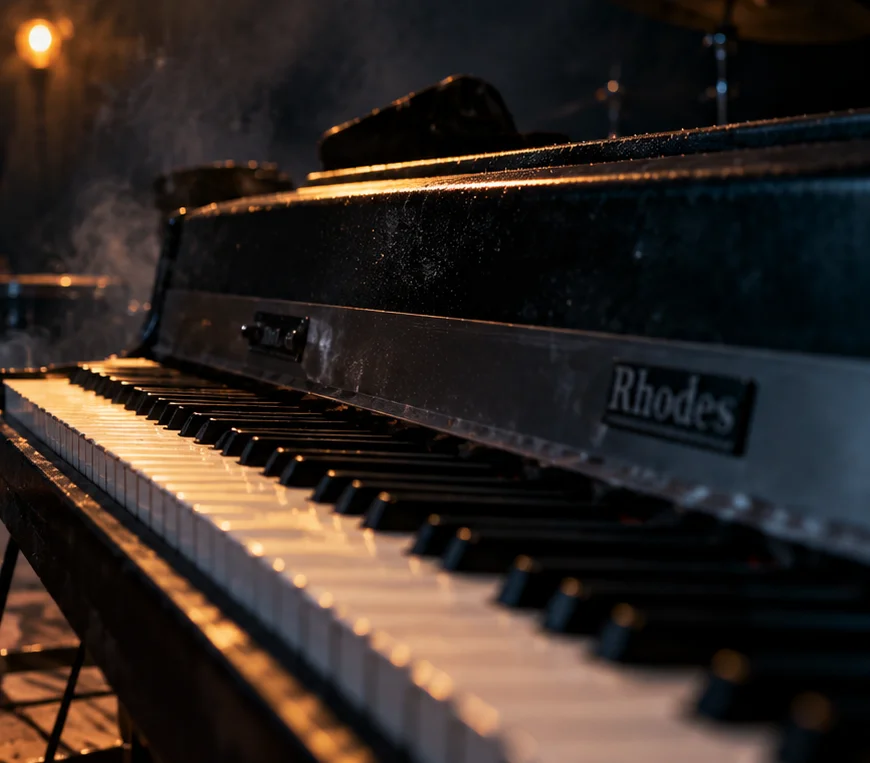
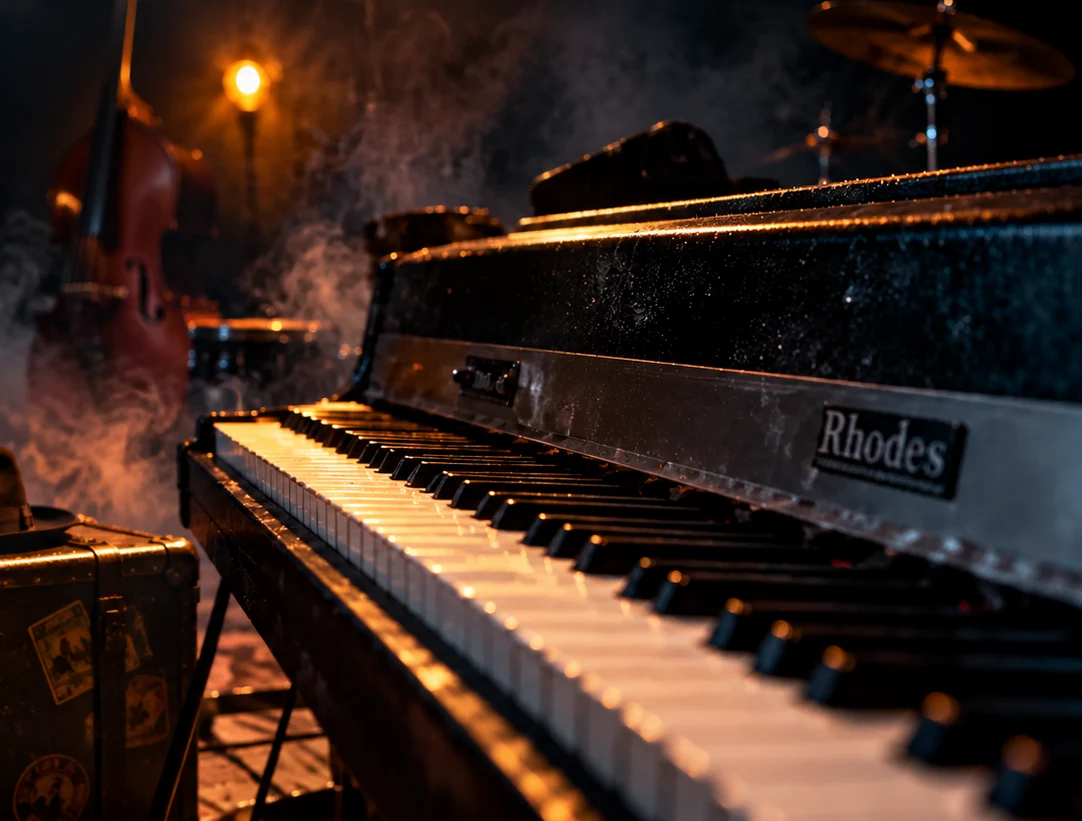
Add files via upload

diff --git a/style.css b/style.css
@@ -1,1 +1,9 @@
 :root{--bg:#16191b;--panel:#202325;--cream:#f2ede5;--muted:#bbb4ab;--accent:#aa676b}*{box-sizing:border-box}html{scroll-behavior:smooth}body{margin:0;background:var(--bg);color:var(--cream);font-family:Georgia,'Times New Roman',serif}a{color:inherit;text-decoration:none}.topbar{height:90px;padding:0 max(5vw,22px);display:flex;justify-content:space-between;align-items:center;position:absolute;z-index:5;top:0;left:0;right:0;background:linear-gradient(#0c1115c9,transparent)}.brand{font-style:italic;font-size:45px;line-height:1}.brand small{font:9px Arial,sans-serif;letter-spacing:3px;display:block;text-align:center;margin-top:9px}.topbar nav{display:flex;gap:30px}.topbar nav a{font:11px Arial,sans-serif;text-transform:uppercase;letter-spacing:2px}.topbar nav a:hover,.mail:hover{color:#e6a4a4}.hero{min-height:750px;height:92svh;max-height:1000px;display:flex;align-items:center;background:linear-gradient(90deg,#10181ef7 0%,#10181ee9 17%,#10181e9e 35%,#10181e20 58%,transparent 100%),url('assets/rhodes-atmosfera.webp') right center/70% 100% no-repeat,#111820}.hero-content{padding:125px max(5vw,24px) 85px;max-width:670px}.eyebrow{font:11px Arial,sans-serif;letter-spacing:3px;color:#c78183;text-transform:uppercase}.hero h1{font-size:clamp(55px,6vw,100px);font-weight:normal;line-height:1.03;letter-spacing:-2px;margin:22px 0}.hero-content>p:not(.eyebrow){font-size:clamp(17px,2vw,23px);color:#d7d0c8;line-height:1.5}.cta{display:inline-flex;align-items:center;gap:30px;margin-top:25px;padding:19px 26px;background:#84484edb;text-transform:uppercase;font:11px Arial,sans-serif;letter-spacing:2px}.cta:hover{background:#a65c62}.section{padding:100px max(7vw,24px);max-width:1600px;margin:auto;scroll-margin-top:30px}.section h2{font-size:clamp(38px,5vw,70px);font-weight:normal;margin:12px 0 26px}.section-head{display:flex;justify-content:space-between;gap:50px;align-items:end}.section-head>p{max-width:410px;line-height:1.8;color:var(--muted)}.music-grid{display:grid;grid-template-columns:repeat(auto-fit,minmax(230px,1fr));gap:26px;margin-top:45px}.track{background:var(--panel);border:1px solid #36393a;overflow:hidden}.cover{aspect-ratio:1;display:grid;place-items:center;background:linear-gradient(135deg,#5b363b,#23292c);color:#e8dbcf;font-size:70px}.cover img{width:100%;height:100%;object-fit:cover}.track-content{padding:22px}.track h3{font-weight:normal;font-size:25px;margin:0 0 8px}.track p{font:12px Arial,sans-serif;color:var(--muted);letter-spacing:.6px;line-height:1.6}.track a{display:inline-block;font:11px Arial,sans-serif;letter-spacing:1.5px;text-transform:uppercase;border-bottom:1px solid var(--accent);padding-bottom:8px;margin-top:15px}.bio{border-top:1px solid #36393a;max-width:none;background:#1d2022}.bio>*{max-width:850px}.bio p:not(.eyebrow){font-size:20px;line-height:1.9;color:#c9c2ba}.contact{min-height:370px}.contact p:not(.eyebrow){color:var(--muted)}.mail{font-size:clamp(20px,3vw,34px);border-bottom:1px solid var(--accent);padding-bottom:9px}footer{display:flex;justify-content:space-between;gap:20px;padding:30px max(7vw,24px);font:11px Arial,sans-serif;color:#a9a39c;border-top:1px solid #34383a}.muted{color:var(--muted)}@media(max-width:700px){.topbar{height:auto;display:block;padding:20px 22px}.brand{font-size:34px;display:inline-block}.topbar nav{margin-top:24px;gap:17px;flex-wrap:wrap}.topbar nav a{font-size:10px}.hero{height:auto;min-height:680px;background:linear-gradient(90deg,#10181ef2,#10181e9c),url('assets/rhodes-atmosfera.webp') center/cover no-repeat}.hero-content{padding-top:200px}.section{padding-top:75px;padding-bottom:75px}.section-head{display:block}footer{display:block}footer span{display:block;margin-bottom:10px}}
+
+/* Home v2: immagine panoramica pulita, senza testi incorporati */
+.brand{font-size:clamp(45px,3.7vw,70px)}
+.brand small{font-size:10px;letter-spacing:3px}
+.hero{min-height:740px;height:95svh;max-height:1050px;background:linear-gradient(90deg,#0c141afc 0%,#0c141af0 20%,#0c141ac2 31%,#0c141a30 52%,#0c141a00 76%),url('assets/rhodes-atmosfera.webp') center center / cover no-repeat,#0c141a}
+.hero-content{max-width:600px;padding-left:max(5vw,24px)}
+.hero h1{font-size:clamp(57px,5.8vw,100px)}
+@media(max-width:700px){.brand{font-size:39px}.hero{height:auto;min-height:740px;background:linear-gradient(90deg,#0c141af2 0%,#0c141ad5 45%,#0c141a75 100%),url('assets/rhodes-atmosfera.webp') 58% center / cover no-repeat}.hero-content{padding-top:220px}.hero h1{font-size:clamp(52px,12vw,76px)}}
